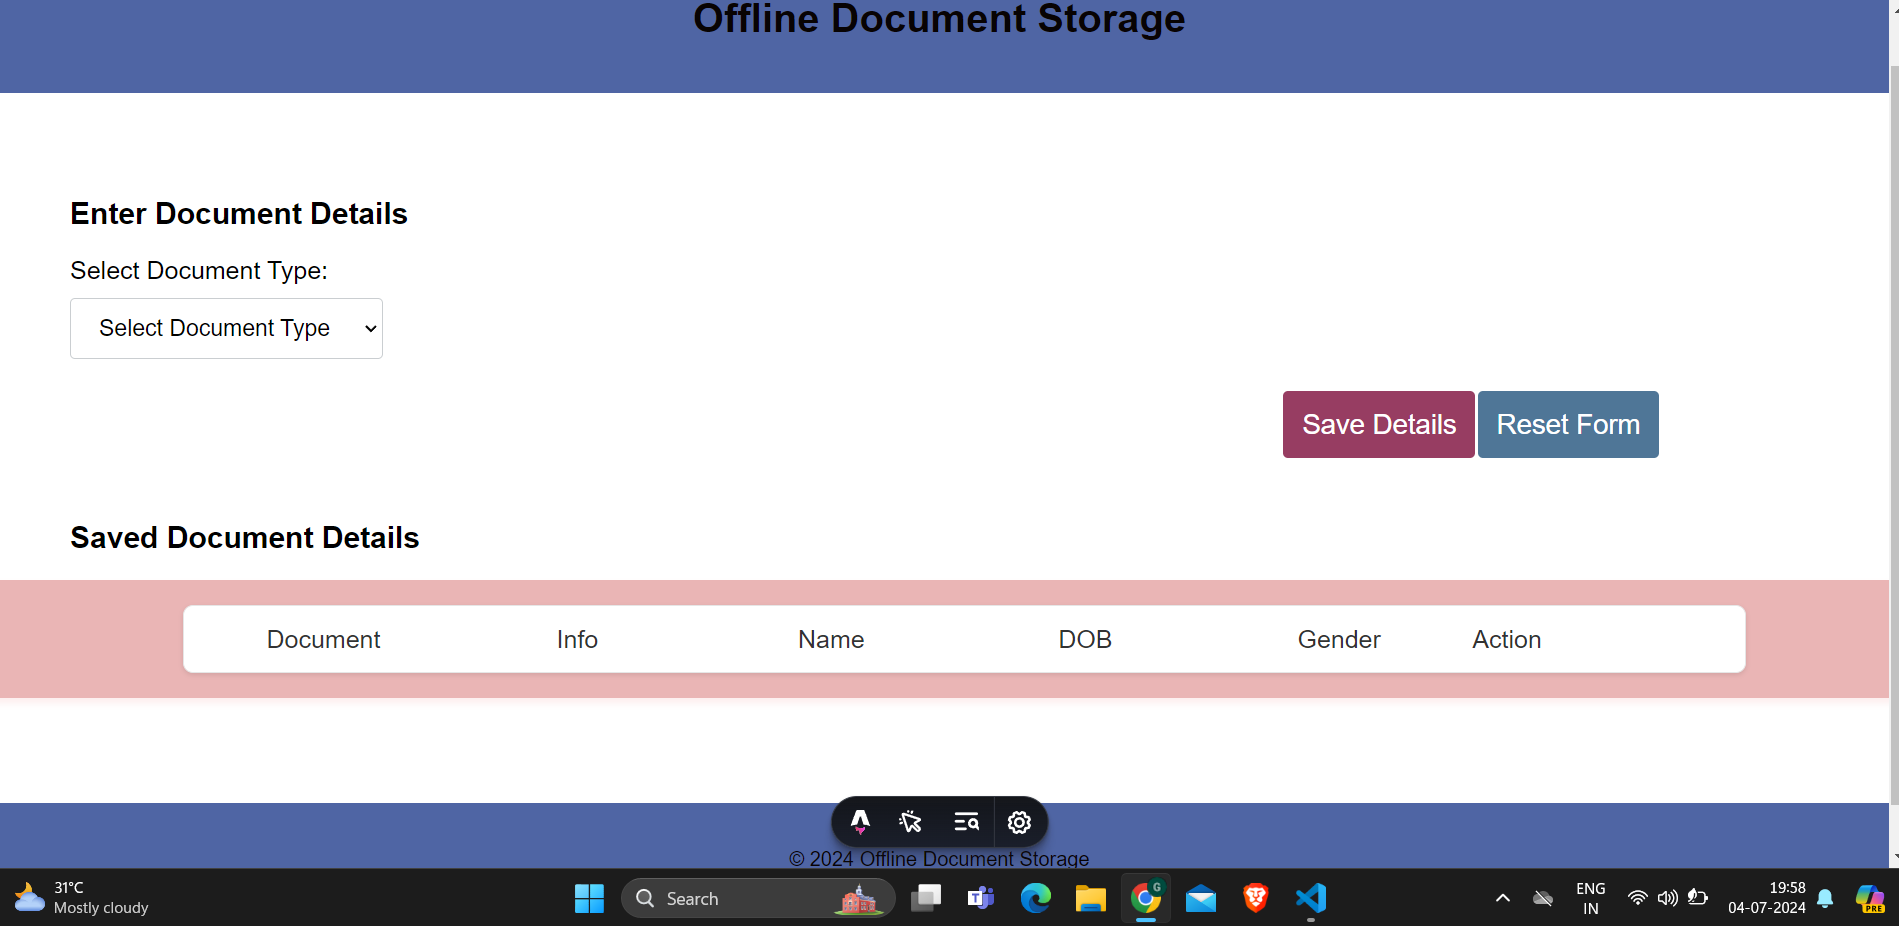
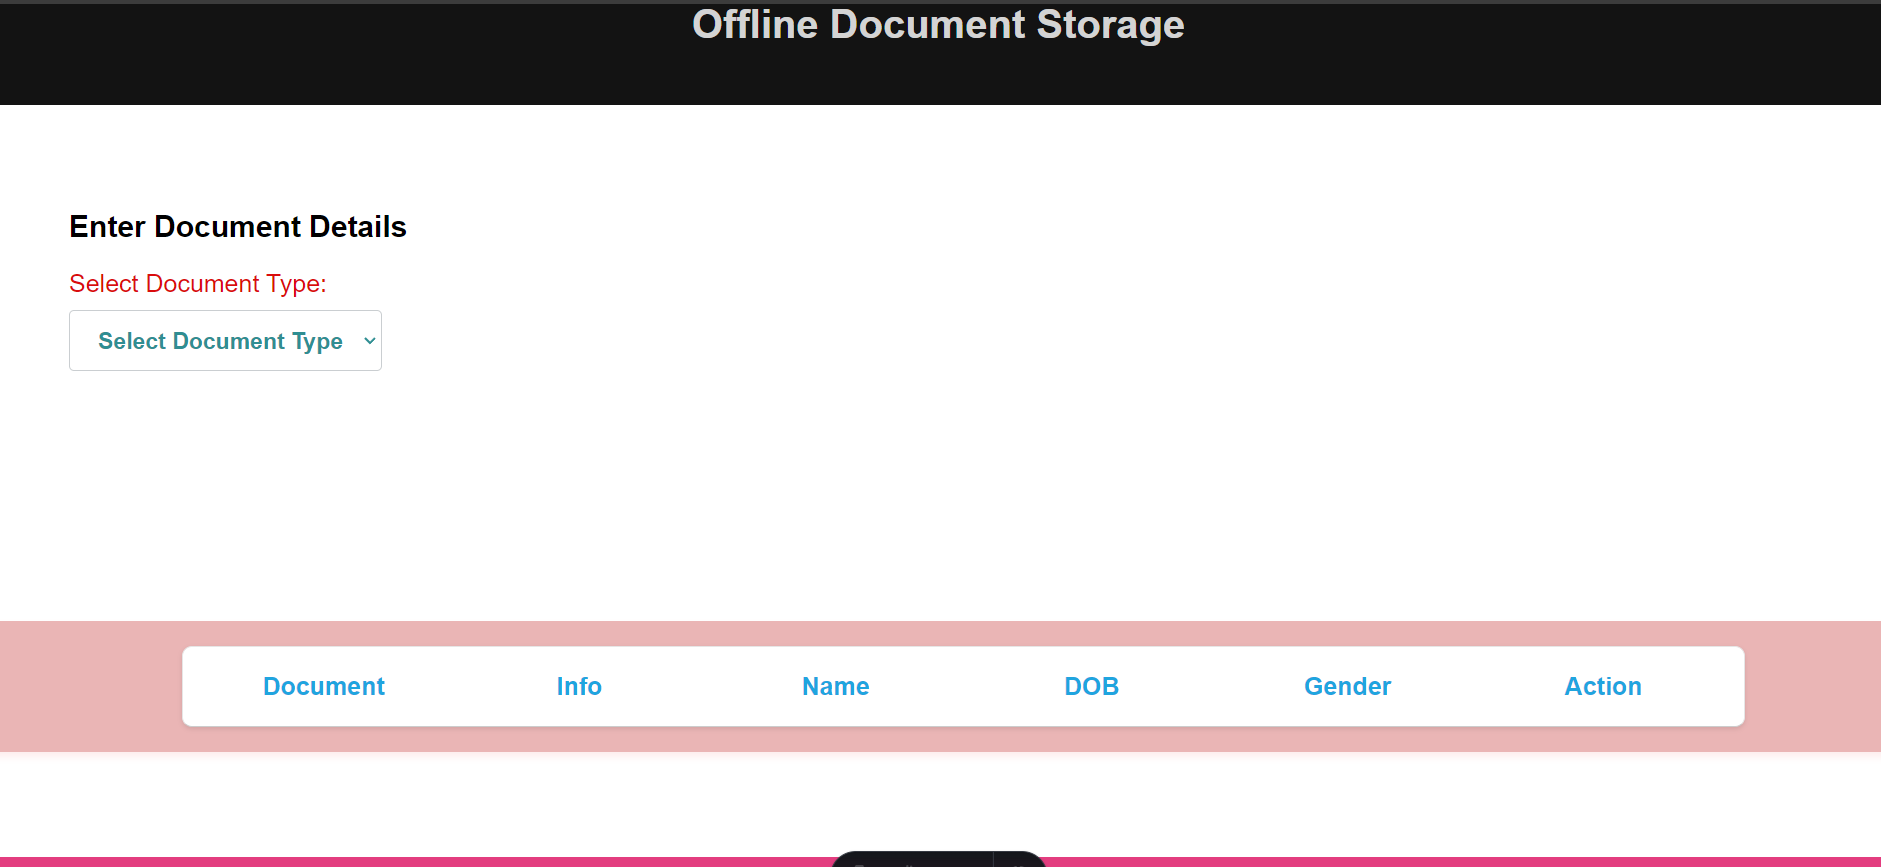
update ui , update readme

diff --git a/src/scripts/formHandlers.js b/src/scripts/formHandlers.js
@@ -19,23 +19,30 @@ function populateAadhaarFields() {
             <input type="text" id="documentNumber_aadhaar" name="documentNumber" required>
             <label for="holdingPersonName_aadhaar">Name:</label>
             <input type="text" id="holdingPersonName_aadhaar" name="holdingPersonName" required>
-             <label for="gender">Gender:</label>
-           <!-- Radio buttons for gender -->
-            <div class="gender-selection">
-                <label>
-                    <input type="radio" id="gender_male" name="gender" value="male" required>
-                    male
-                </label>
-                <label>
-                    <input type="radio" id="gender_female" name="gender" value="female" required>
-                    female
-                </label>
-            </div>
+          
 
             <label for="DOB_aadhaar">Date of Birth:</label>
             <input type="date" id="DOB_aadhaar" name="DOB" required>
             <label for="aadhaarAddress">Address:</label>
             <textarea id="aadhaarAddress" name="aadhaarAddress" required></textarea>
+               <label for="gender">Gender:</label>
+           <!-- Radio buttons for gender -->
+            <div class="gender-selection">
+                <label>
+                  <div class="gender-selection" style="display: flex; gap: 10px;">
+                <label style="display: flex; align-items: center;">
+                    <input type="radio" id="gender_male" name="gender" value="male" required checked>
+                    male
+                </label>
+                <label style="display: flex; align-items: center;">
+                    <input type="radio" id="gender_female" name="gender" value="female" required>
+                    female
+                </label>
+            </div>
+             <div class="button-container">
+        <button type="submit" id="saveButton" class="save-btn">Save</button>
+        <button type="button" id="resetButton" class="reset-btn">Reset</button>
+      </div>
         </div>
     `;
 }
@@ -57,14 +64,20 @@ function populateDrivingLicenseFields() {
             <!-- Radio buttons for gender -->
             <div class="gender-selection">
                 <label>
-                    <input type="radio" id="gender_male" name="gender" value="male" required>
+                 <div class="gender-selection" style="display: flex; gap: 10px;">
+                <label style="display: flex; align-items: center;">
+                    <input type="radio" id="gender_male" name="gender" value="male" required checked>
                     male
                 </label>
-                <label>
+                <label style="display: flex; align-items: center;">
                     <input type="radio" id="gender_female" name="gender" value="female" required>
                     female
                 </label>
             </div>
+             <div class="button-container">
+        <button type="submit" id="saveButton" class="save-btn">Save</button>
+        <button type="button" id="resetButton" class="reset-btn">Reset</button>
+      </div>
 
         </div>
     `;
@@ -83,41 +96,25 @@ function populatePanCardFields() {
            <!-- Radio buttons for gender -->
             <div class="gender-selection">
                 <label>
-                    <input type="radio" id="gender_male" name="gender" value="male" required>
+                 <div class="gender-selection" style="display: flex; gap: 10px;">
+                <label style="display: flex; align-items: center;">
+                    <input type="radio" id="gender_male" name="gender" value="male" required checked>
                     male
                 </label>
-                <label>
+                <label style="display: flex; align-items: center;">
                     <input type="radio" id="gender_female" name="gender" value="female" required>
                     female
                 </label>
             </div>
+             <div class="button-container">
+        <button type="submit" id="saveButton" class="save-btn">Save</button>
+        <button type="button" id="resetButton" class="reset-btn">Reset</button>
+      </div>
 
         </div>
     `;
 }
 
-document.addEventListener('input', function(event) {
-    const target = event.target;
-    const documentType = document.getElementById('documentType').value.toLowerCase();
-
-    if (target && target.matches('input[name="documentNumber"]')) {
-        const inputValue = target.value.trim();
-        let containsAlphabetic = false;
-
-        
-        for (let char of inputValue) {
-            if (/[a-zA-Z]/.test(char)) {
-                containsAlphabetic = true;
-                break;
-            }
-        }
-
-        
-        if (containsAlphabetic) {
-            target.style.fontWeight = '700'; 
-        } else {
-            target.style.fontWeight = '300'; 
-        }
 
         
         switch (documentType) {
@@ -134,8 +131,7 @@ document.addEventListener('input', function(event) {
                 
                 break;
         }
-    }
-});
+    
 
 function validateAadhaar(inputValue) {
     if (inputValue.length > 12) {

diff --git a/public/assets/styles/style.css b/public/assets/styles/style.css
@@ -13,7 +13,7 @@ section {
     margin-bottom: 20px;
 }
 .container {
-    width: 100vw; /* Full width of the viewport */
+    width: 100vw;
     display: flex;
     flex-direction: column;
     justify-content: center;
@@ -26,8 +26,9 @@ section {
     position: relative;
     left: 50%;
     right: 50%;
-    margin-left: -50vw; /* Negative margin to stretch the container to the left */
-    margin-right: -50vw; /* Negative margin to stretch the container to the right */
+    margin-left: -50vw; 
+    margin-right: -50vw; 
+    margin-top: 200px;
 }
 
 
@@ -92,9 +93,16 @@ button:hover {
 }
 
 .footer {
-    background-color: #1d3a8ac7;
+    background-color: #db065bc7;
     color: hwb(0 1% 97%);
-    padding: 20px;
+    padding: 40px;
+    text-align: center;
+    margin-bottom: 10px;
+}
+.foote {
+    background-color: #000000ec;
+    color: hwb(0 98% 2% / 0.836);
+    padding: 25px;
     text-align: center;
 }
 
@@ -106,7 +114,7 @@ button:hover {
     background-color: #fff;
     border: 1px solid #caced1;
     border-radius: 0.25rem;
-    color: #000;
+    color: #2f8e92;
     cursor: pointer;
     margin-top: 10px;
 }
@@ -114,6 +122,7 @@ button:hover {
 #documentForm label {
     font-size: 20px;
     font-family: sans-serif;
+    color: #da0c0c;
 }
 
 .formContainer {
@@ -122,19 +131,37 @@ button:hover {
     display: flex;
     flex-direction: column;
     margin: auto;
-    gap: 5px;
+    gap: 6px;
+    font-weight: bold;
 }
-
+.bold {
+    font-weight: bold;
+}
 
 .formContainer input,
 select {
     width: 100%;
-    padding: 12px 0px;
+    padding: 12px 10px;
     margin: 8px 0;
     display: inline-block;
     border: 1px solid #ccc;
     border-radius: 10px;
     box-sizing: border-box;
+    -ms-text-size-adjust: 25px ;
+    font-weight: bold;
+    
+}
+.formContainer select,
+.formContainer textarea {
+    width: 100%;
+    padding: 12px 10px;
+    margin: 8px 0;
+    display: inline-block;
+    border: 1px solid #ccc;
+    border-radius: 10px;
+    box-sizing: border-box;
+    font-weight: bold; /* This will apply bold font-weight only to input fields */
+    letter-spacing: 0.09em;
 }
 
 .formContainer input[type="date"] {
@@ -174,11 +201,11 @@ select {
     color: #fff; 
     border-radius: 4px;
     border: none;
-    padding: 14px 15px;
+    padding: 15px 15px;
     cursor: pointer;
     transition: background-color 0.3s;
     font-size: 22px;
-    margin-top: 18px; 
+   
 }
 
 .save-btn:hover {
@@ -196,18 +223,18 @@ select {
     }
   }
   .label {
-    font-weight: lighter; /* Make label text lighter */
+    font-weight: lighter; 
   }
   
   .value {
-    font-style: italic; /* Make value text italic */
+    font-style: italic; 
   }
-  /* Make label text bold */
+  
   .canvas-label {
     font-weight: bold;
   }
   
-  /* Make value text italic */
+  
   .canvas-value {
     font-style: italic;
   }
@@ -220,7 +247,7 @@ select {
     cursor: pointer;
     transition: background-color 0.3s;
     font-size: 22px;
-    margin-top: 18px; 
+   
   }
   
   .reset-btn:hover {
@@ -232,10 +259,20 @@ select {
     justify-content: flex-end;
     gap: 2px;
     margin-top: 3px;
-    margin-right: 120px;
-    margin-bottom: 50px;
+    margin-right: 5px;
+   
 }
 
+.item.header {
+    color: rgb(79, 130, 197);
+}
+
+
+.item.header div {
+    padding: 10px; 
+    font-weight: bold; 
+    text-align: center; 
+}
 
 
 
@@ -246,8 +283,54 @@ select {
 
 #aadhaar {
     padding: 20px;
-    border: 2px solid #28a745;
-    background: rgba(40, 167, 69, 0.1);
+    border: 2px solid #67c4e9;
+    background: rgba(198, 217, 223, 0.69);
     border-radius: 16px;
     box-shadow: 0 4px 30px rgba(0, 0, 0, 0.1);
 }
+
+.item.header {
+    display: flex;
+    justify-content: space-between; 
+    align-items: center; 
+    color: rgb(31, 165, 223); 
+    padding: 10px; 
+    font-weight: bold; 
+}
+
+
+.item {
+    display: flex;
+    justify-content: space-between; 
+    align-items: center; 
+    padding: 10px; 
+    border-bottom: 1px solid #ccc; 
+}
+
+
+.item.header div,
+.item div {
+    flex: 1; 
+    text-align: center; 
+    padding: 10px; 
+}
+
+
+.item div:last-child {
+    display: flex;
+    gap: 10px; 
+    justify-content: center; 
+}
+.saved{
+    justify-content: center;
+    margin-left: 600px;
+    
+
+    
+}
+
+
+
+
+
+

diff --git a/README.md b/README.md
@@ -82,13 +82,16 @@ Here are some screenshots of the application:
 ![MainPage](</public/assets/images/FrontUI.png>)
  Entry Page consist of front ui of the application with the options of forms selection and buttons like save and reset details.
 
+ ![SelectionPage](</public/assets/images/OptionsSelection.png>)
+ Entry Page consist of dropdown for form selection
+
 ### Forms Section
 
-![DrivingLicense](/public/assets/images/formDL.png)
+![DrivingLicense](/public/assets/images/DLForm.png)
 
-![PanForm](/public/assets/images/formPan.png)
+![PanForm](/public/assets/images/PanForm.png)
 
-![AadharCard](/public/assets/images/formAadhar.png)
+![AadharCard](/public/assets/images/AadharForm.png)
 
 This section consists of forms image that are used in our website 
 
@@ -104,7 +107,7 @@ This section consists of forms image that are used in our website
 
 ### SavedDetails
 
-![SavedDetails](public/assets/images/StoredData.png)
+![SavedDetails](public/assets/images/Data.png)
  This section consists of the samples of some data collected from the user
 
 
